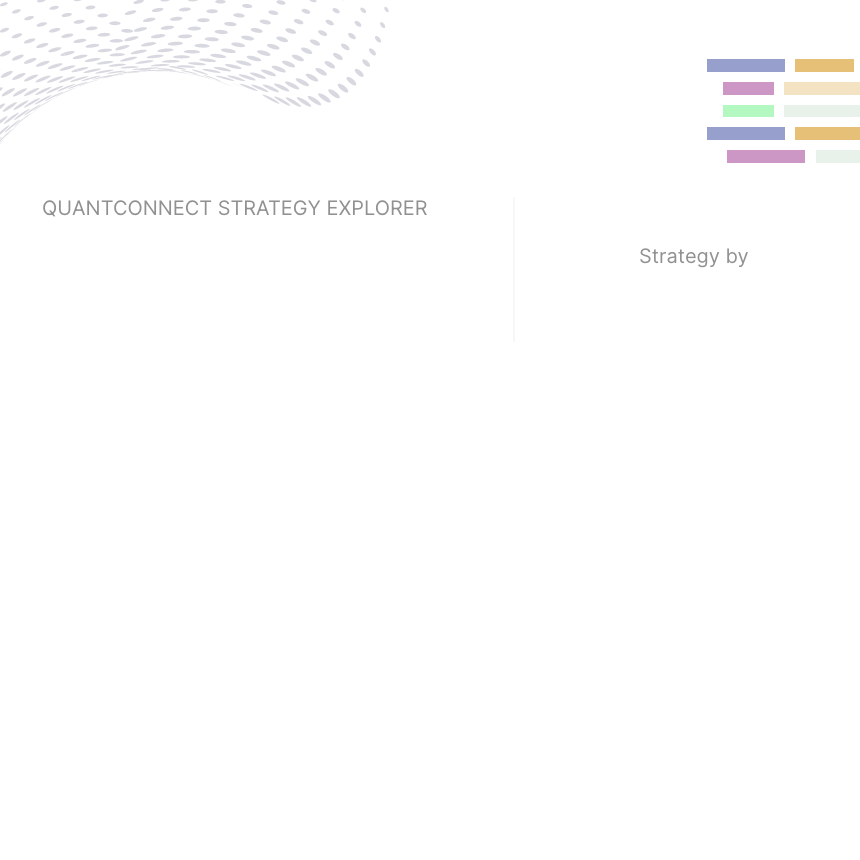
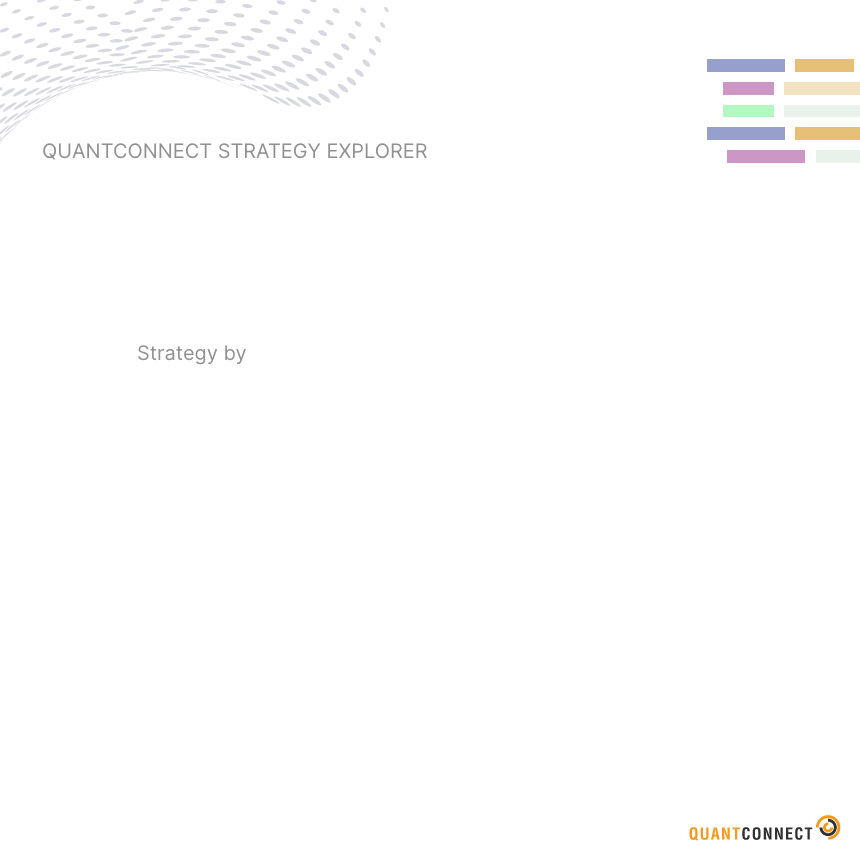
New Template for Square Image New Author Position

diff --git a/Explore/generate_social_media_thumbnails.py b/Explore/generate_social_media_thumbnails.py
@@ -115,9 +115,6 @@ def __create_square(template, strategy, profile) -> Image:
     # Create a copy of the template to add elements
     copy = template.copy()
 
-    # Add profile picture
-    copy.paste(profile, (550, 225),mask=profile)
-
     # Add texts
     I1 = ImageDraw.Draw(copy)
     name = strategy.get('name')
@@ -127,34 +124,23 @@ def __create_square(template, strategy, profile) -> Image:
     category = category.upper()
 
     width = name_font.getlength(name)
-    if width < 450:
-        I1.text((42,220), name, font=name_font, fill='#313131')
+    if width < 650:
+        I1.text((42,160), name, font=name_font, fill='#313131')
     else:
         parts = name.split(' ')
         for i in reversed(range(len(parts))):
-            if name_font.getlength(' '.join(parts[:i])) <= 450:
+            if name_font.getlength(' '.join(parts[:i])) <= 650:
                 break
-        I1.text((42,220), ' '.join(parts[:i]), font=name_font, fill='#313131')
-        I1.text((42,255), ' '.join(parts[i:]), font=name_font, fill='#313131')
-        
-    width = author_font.getlength(author_name)
-    if width < 200:
-        I1.text((640,265), author_name, font=author_font, fill='#313131')
-    else:
-        parts = author_name.split(' ')
-        for i in reversed(range(len(parts))):
-            if author_font.getlength(' '.join(parts[:i])) <= 200:
-                break
-        if i == 0:
-            while author_font.getlength(author_name) > 200:
-                author_name = author_name[:-1]
-            I1.text((640,265), f'{author_name}...', font=author_font, fill='#313131')
-        else:
-            I1.text((640,265), ' '.join(parts[:i]), font=author_font, fill='#313131')
-            I1.text((640,290), ' '.join(parts[i:]), font=author_font, fill='#313131')
+        I1.text((42,160), ' '.join(parts[:i]), font=name_font, fill='#313131')
+        I1.text((42,195), ' '.join(parts[i:]), font=name_font, fill='#313131')
 
-    I1.text((42,300), category, font=category_font,
+    I1.text((42,240), category, font=category_font,
         fill=colors_by_category.get(category, '#313131'))
+
+    # Add profile picture
+    copy.paste(profile, (42, 325),mask=profile)
+
+    I1.text((137, 360), author_name, font=author_font, fill='#313131')
 
     fig = __get_equity_curve(strategy, 860, 285)
     copy.paste(fig, (0, 440),mask=fig)
